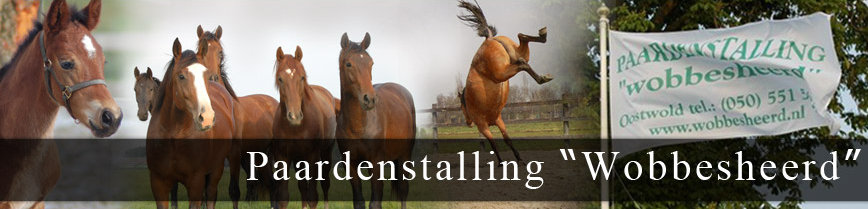
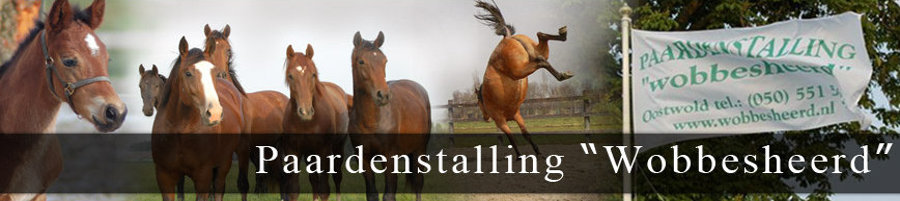
Correct header size

diff --git a/css/bootstrap-override.css b/css/bootstrap-override.css
@@ -1,11 +1,11 @@
 body {
-	background: url(../img/bg.jpg) repeat-x #ffffff;
+	background: url(../img/bg.jpg) repeat-x #FFF;
 }
 
 .container {
 	width: 900px;
 	max-width: 100%;
-	box-shadow: 0 0 20px #888888;
+	box-shadow: 0 0 20px #888;
 	margin-top: 25px;
 	margin-bottom: 25px;
 	padding-left: 0;
@@ -17,6 +17,8 @@ body {
 
 header[role="banner"] #logo-main {
 	display: block;
+	width: initial;
+	height: initial;
 	max-width: 100%;
 }
 
